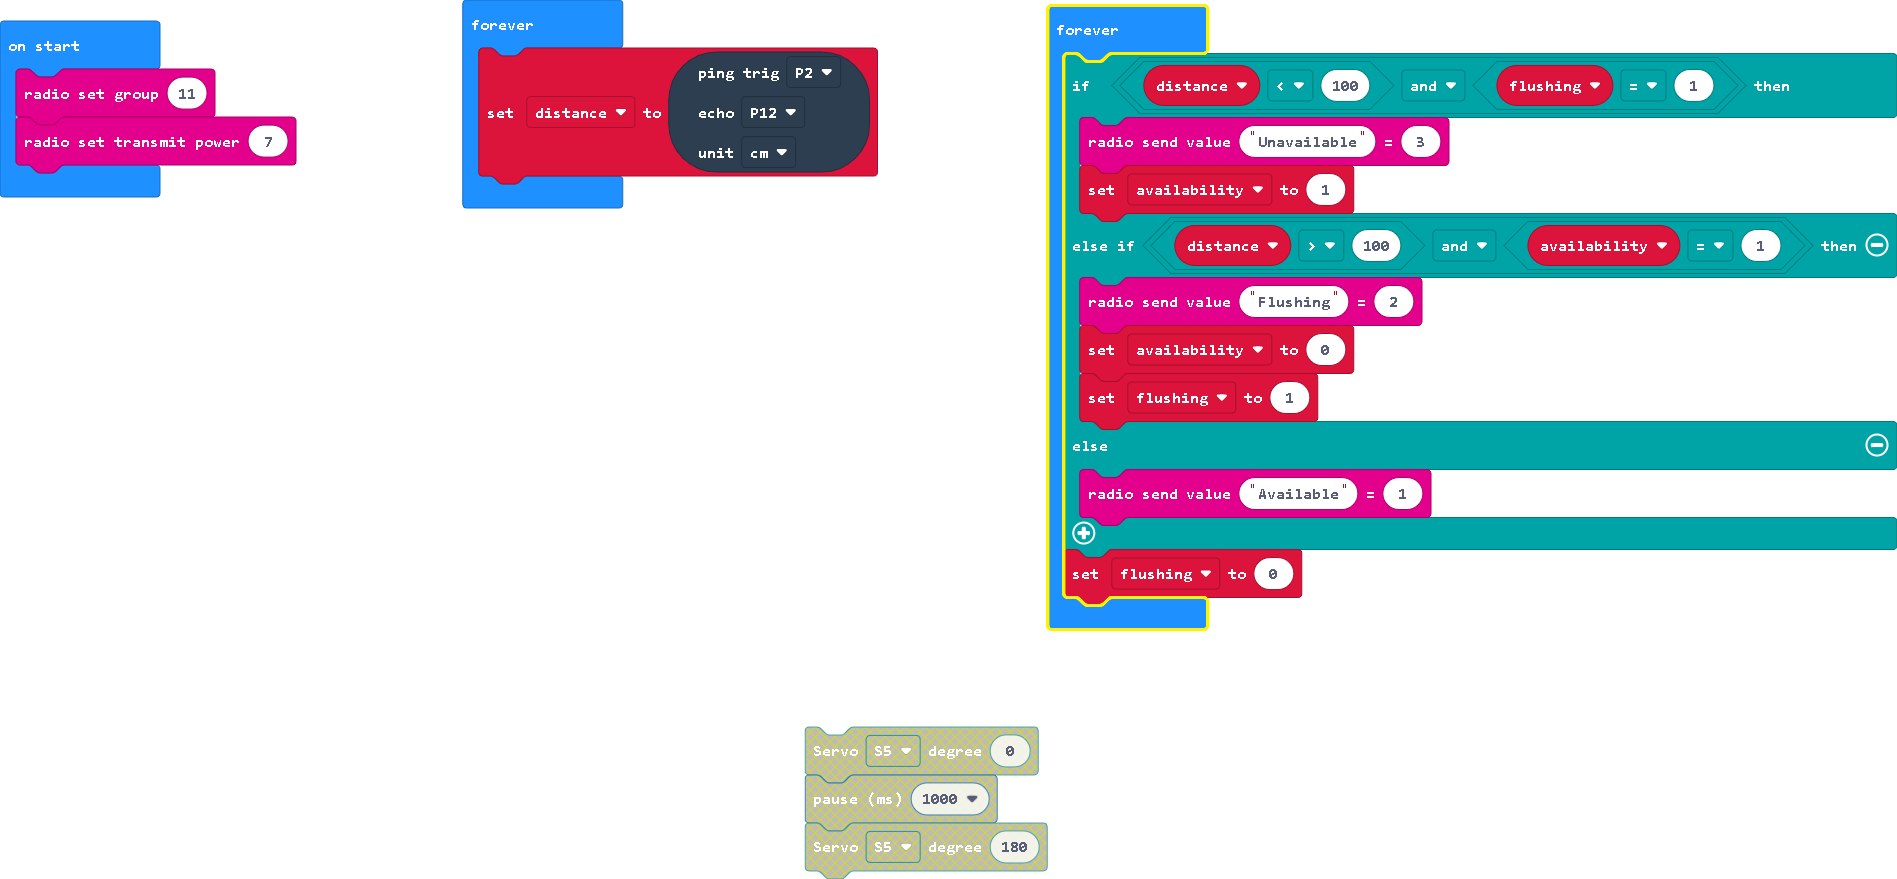
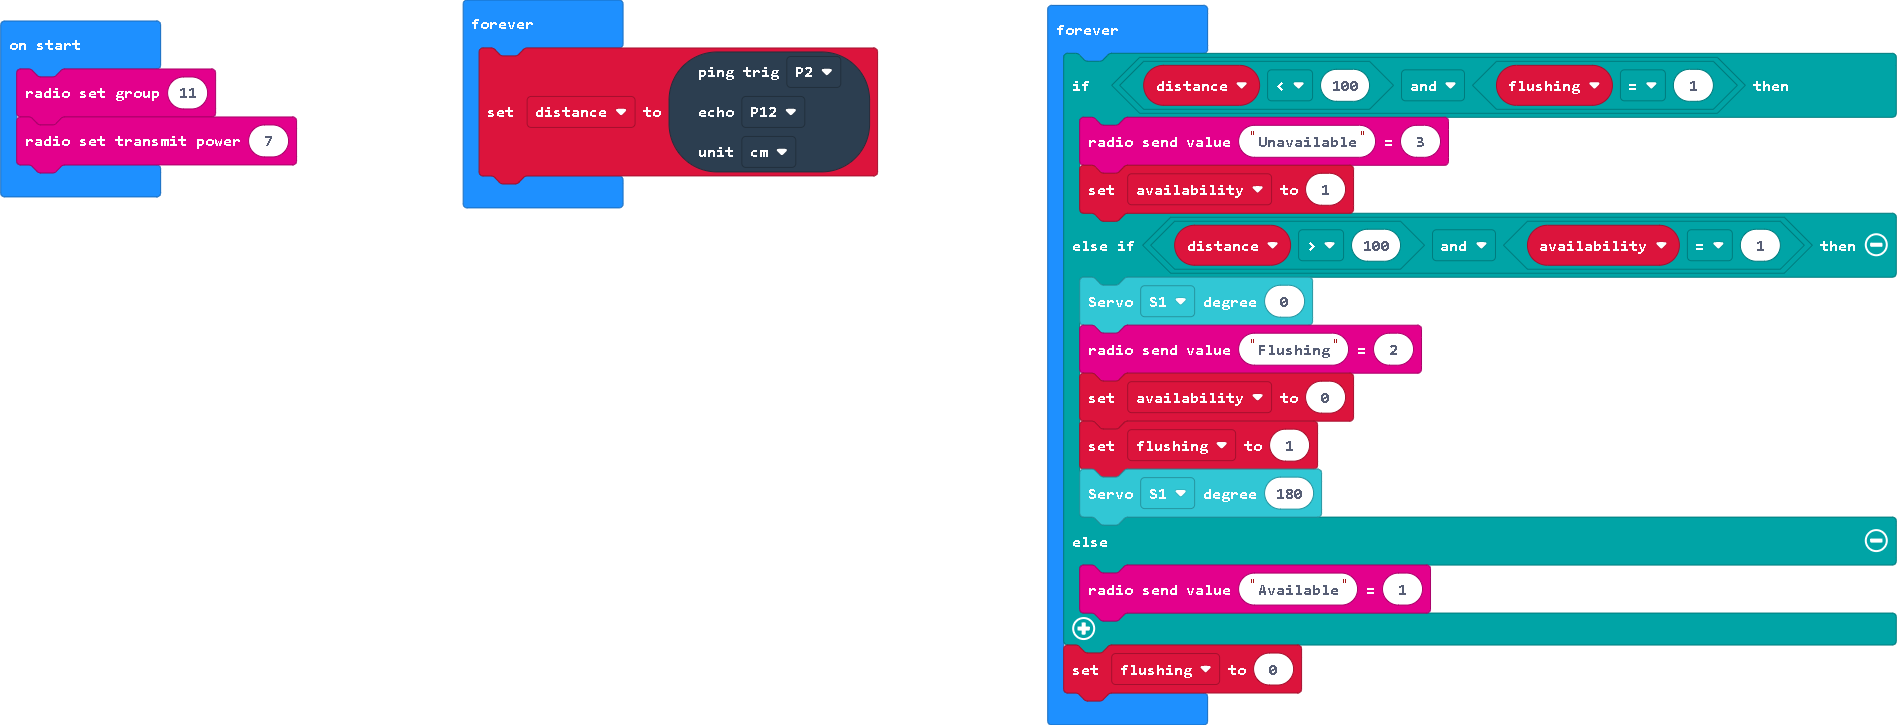
Update main.blocks, main.ts

Changed region(s): [[0.4043, 0.0, 1.0, 1.0], [0.2177, 0.0303, 0.4665, 0.3034], [0.0, 0.0, 0.1555, 0.2731]]

diff --git a/main.ts b/main.ts
@@ -15,9 +15,11 @@ basic.forever(function () {
         radio.sendValue("Unavailable", 3)
         availability = 1
     } else if (distance > 100 && availability == 1) {
+        robotbit.Servo(robotbit.Servos.S1, 0)
         radio.sendValue("Flushing", 2)
         availability = 0
         flushing = 1
+        robotbit.Servo(robotbit.Servos.S1, 180)
     } else {
         radio.sendValue("Available", 1)
     }
